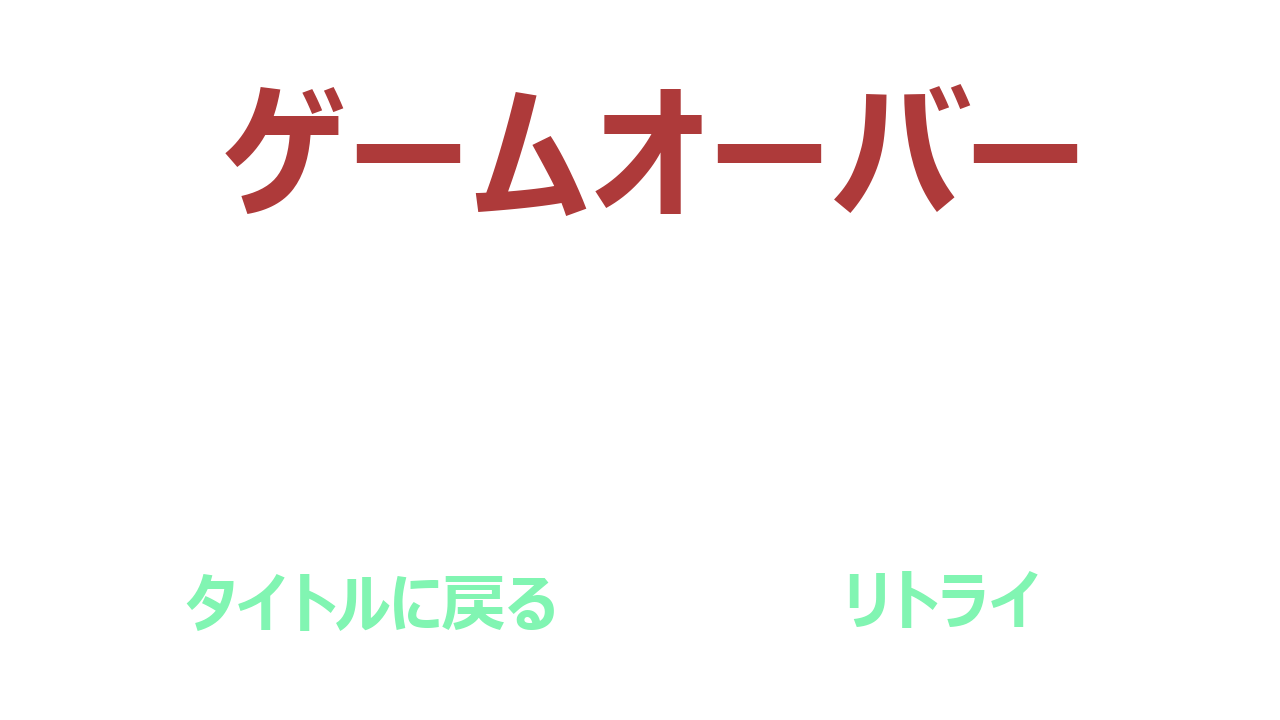
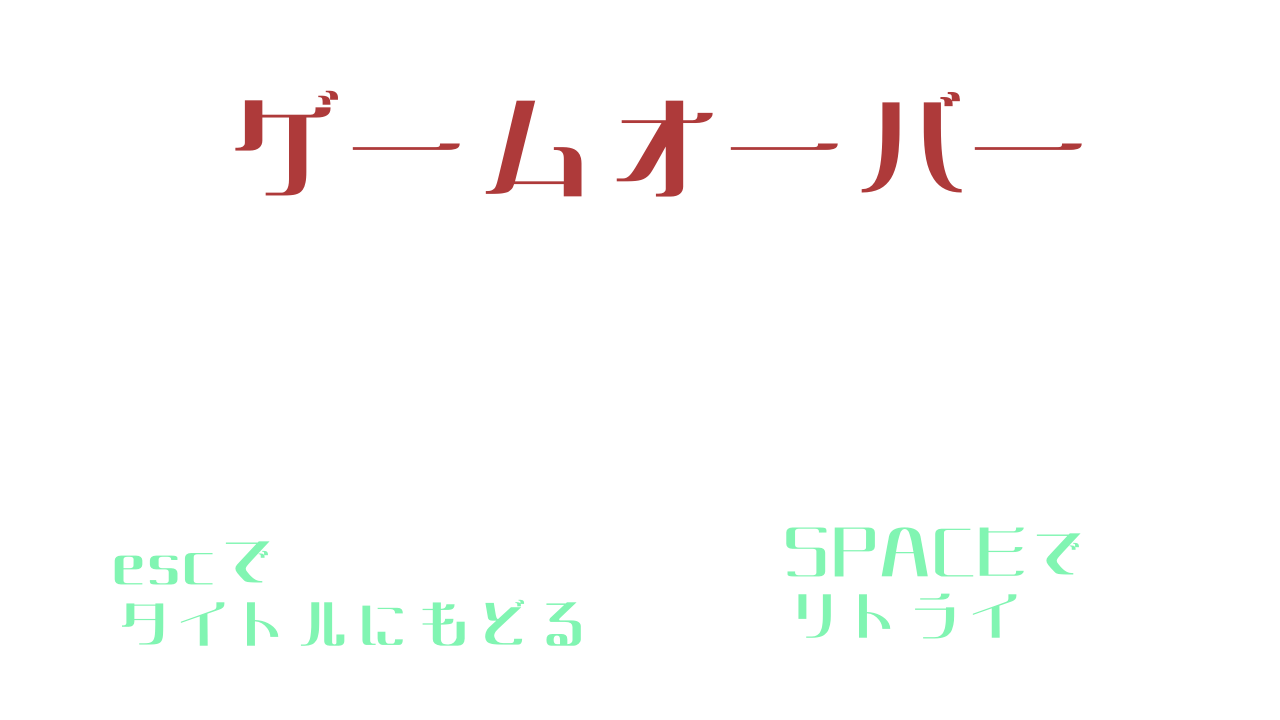
仕上げ1

diff --git a/project/Application/object/Enemy.cpp b/project/Application/object/Enemy.cpp
@@ -6,7 +6,7 @@ Enemy::~Enemy() {
 	delete deathBom;
 }
 
-void Enemy::Initialize(Object3dCommon* object3dCommon, const Vector3& position) {
+void Enemy::Initialize(Object3dCommon* object3dCommon, const Vector3& position, float speed) {
 	
 	ObjCommon = object3dCommon;
 	object3d = new Object3d();
@@ -16,6 +16,7 @@ void Enemy::Initialize(Object3dCommon* object3dCommon, const Vector3& position) 
 	this->position = position;
 	object3d->SetTranslate(position);
 
+	this->speed = speed;
 }
 
 void  Enemy::Update() {
@@ -25,7 +26,7 @@ void  Enemy::Update() {
 	{
 	case move:
 		position = object3d->GetTranslate();
-		position.z -= 0.05f;
+		position.z -= speed;
 		object3d->SetTranslate(position);
 
 		if (position.z < 1.0f) {
@@ -35,7 +36,7 @@ void  Enemy::Update() {
 		break;
 	case stop:
 		position = object3d->GetTranslate();
-		position.z -= 0.05f;
+		position.z -= speed;
 		object3d->SetTranslate(position);
 
 		rotation.y += 0.3f;

diff --git a/project/Application/scene/GameScene.cpp b/project/Application/scene/GameScene.cpp
@@ -235,7 +235,7 @@ void GameScene::EnemyBorn(Vector3 position) {
 	Enemy* enemy = new Enemy();
 	Vector3 EnemyPos = position;
 
-	enemy->Initialize(object3dCommon_, EnemyPos);
+	enemy->Initialize(object3dCommon_, EnemyPos,speed);
 	enemies.push_back(enemy);
 }
 
@@ -287,9 +287,6 @@ void GameScene::UpdateEnemyPop() {
 				getline(line_stream, word, ',');
 				float z = (float)std::atof(word.c_str());
 
-				getline(line_stream, word, ',');
-				float direction = (float)std::atof(word.c_str());//向き
-
 				EnemyBorn(Vector3(x, y, z));
 
 			}
@@ -302,6 +299,12 @@ void GameScene::UpdateEnemyPop() {
 				waitTimer = waitTime;
 
 				break; // 待機時間にif Aを使うため一度while文から抜ける
+			}
+			else if (word.find("SPEED_UP") == 0) {
+				getline(line_stream, word, ',');
+
+				float Up = (float)std::atof(word.c_str());
+				speed += Up;
 			}
 			else if (word.find("FINISH") == 0) {
 				isBornFinish = true;

diff --git a/project/Application/object/Enemy.h b/project/Application/object/Enemy.h
@@ -13,7 +13,7 @@ enum Action {
 class Enemy {
 public:	
 	~Enemy();
-	void Initialize(Object3dCommon* object3dCommon,const Vector3& position);
+	void Initialize(Object3dCommon* object3dCommon,const Vector3& position,float speed);
 	void Update();
 	void Draw();
 
@@ -35,6 +35,8 @@ private:
 	Vector3 position;
 	Vector3 rotation;
 	Vector3 size;
+
+	float speed = 0.0f;
 
 	Action action;
 	DeathParticle* deathBom = nullptr;

diff --git a/project/Application/scene/GameOverScene.cpp b/project/Application/scene/GameOverScene.cpp
@@ -39,10 +39,17 @@ void GameOverScene::Update() {
 
 	if (input_->TriggerKey(DIK_SPACE)) {
 		fead_->StartFead();
+		reTry = true;
+	}
+	if (input_->TriggerKey(DIK_ESCAPE)) {
+		fead_->StartFead();
 	}
 
-	if (fead_->SceneChange()) {
+	if (fead_->SceneChange() && reTry) {
 		sceneNo = SCENE::GAME;
+	}
+	else if(fead_->SceneChange()){
+		sceneNo = SCENE::Title;
 	}
 }
 

diff --git a/project/Application/scene/GameScene.h b/project/Application/scene/GameScene.h
@@ -53,6 +53,7 @@ private:
 	bool WaitFlag = false;
 	int32_t waitTimer;
 	bool isBornFinish = false;
+	float speed = 0.05f;
 
 	Fead* fead_ = nullptr;
 	Skydorm* skydorm_ = nullptr;

diff --git a/project/Application/scene/GameOverScene.h b/project/Application/scene/GameOverScene.h
@@ -18,4 +18,6 @@ private:
 	Fead* fead_ = nullptr;
 	Camera* camera = nullptr;
 	Skydorm* skydorm_ = nullptr;
+
+	bool reTry = false;
 };
